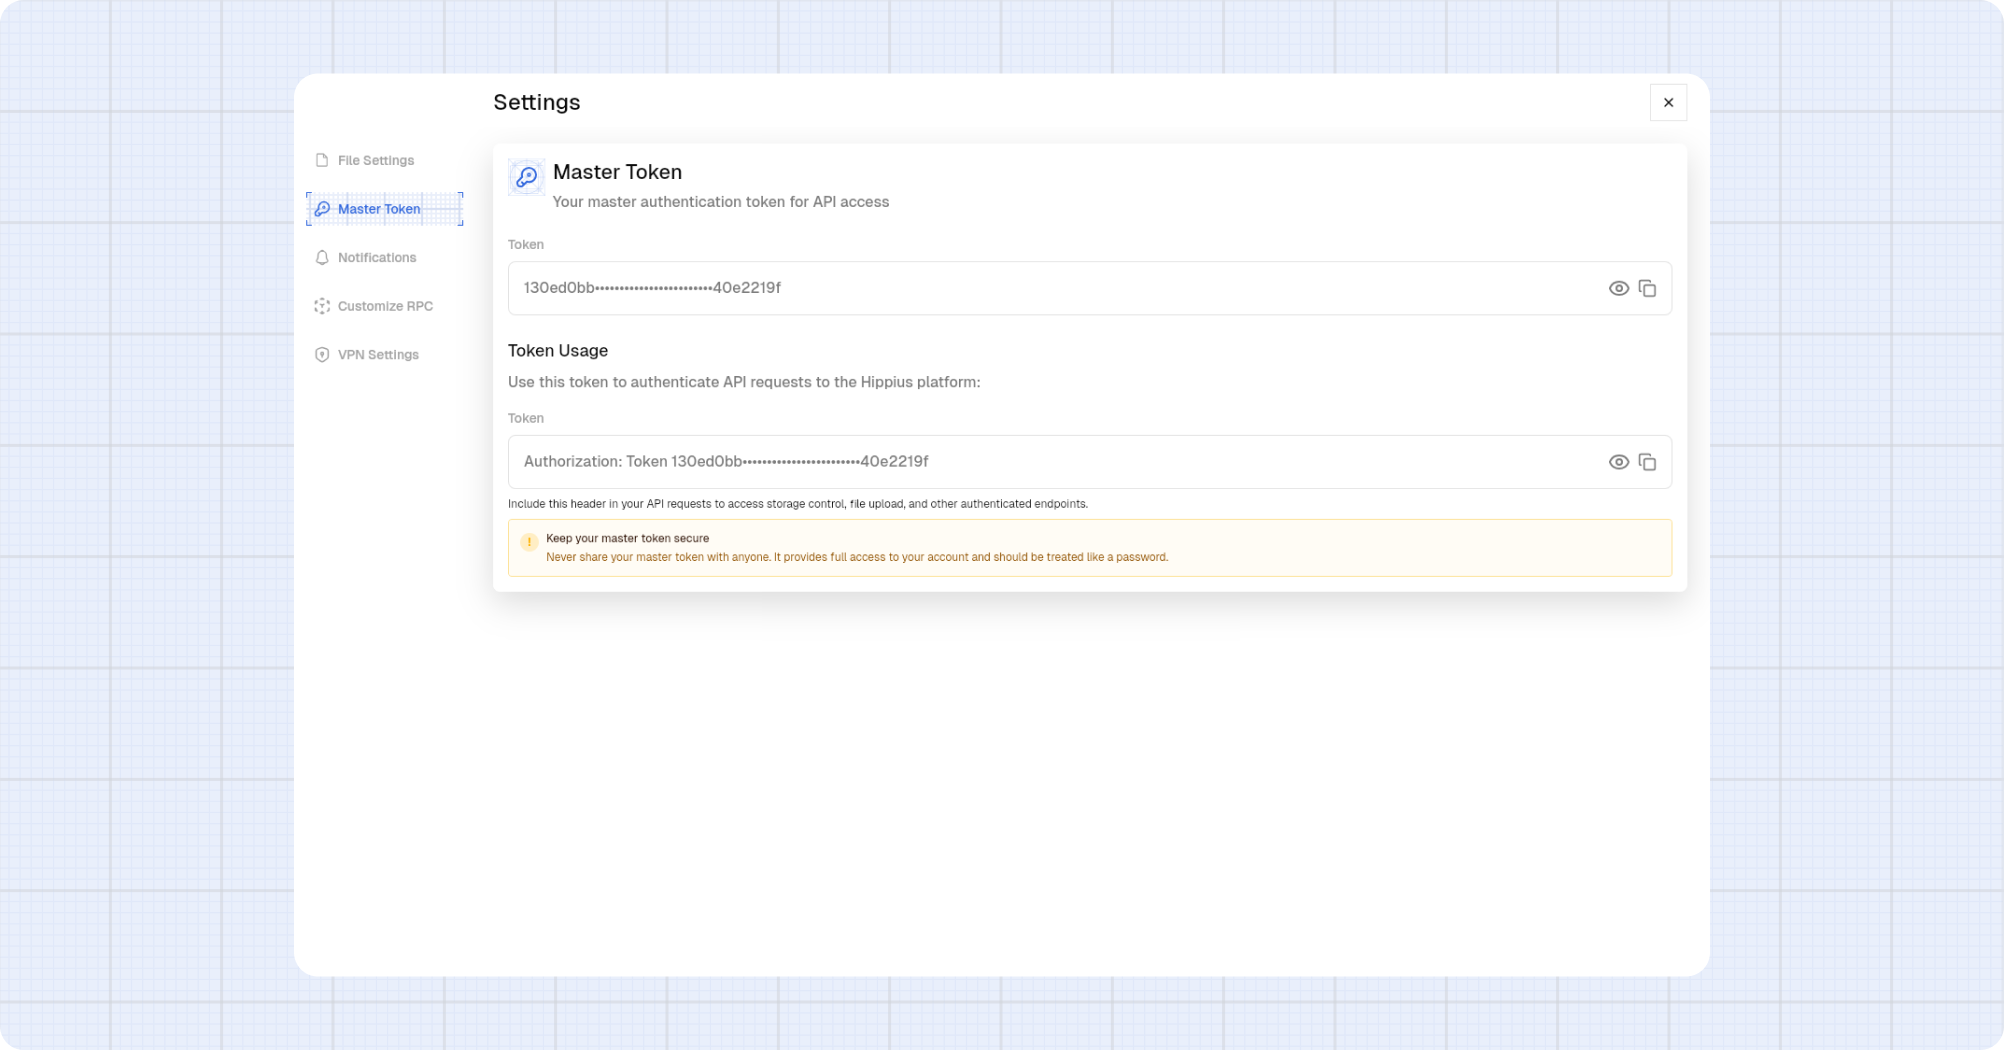
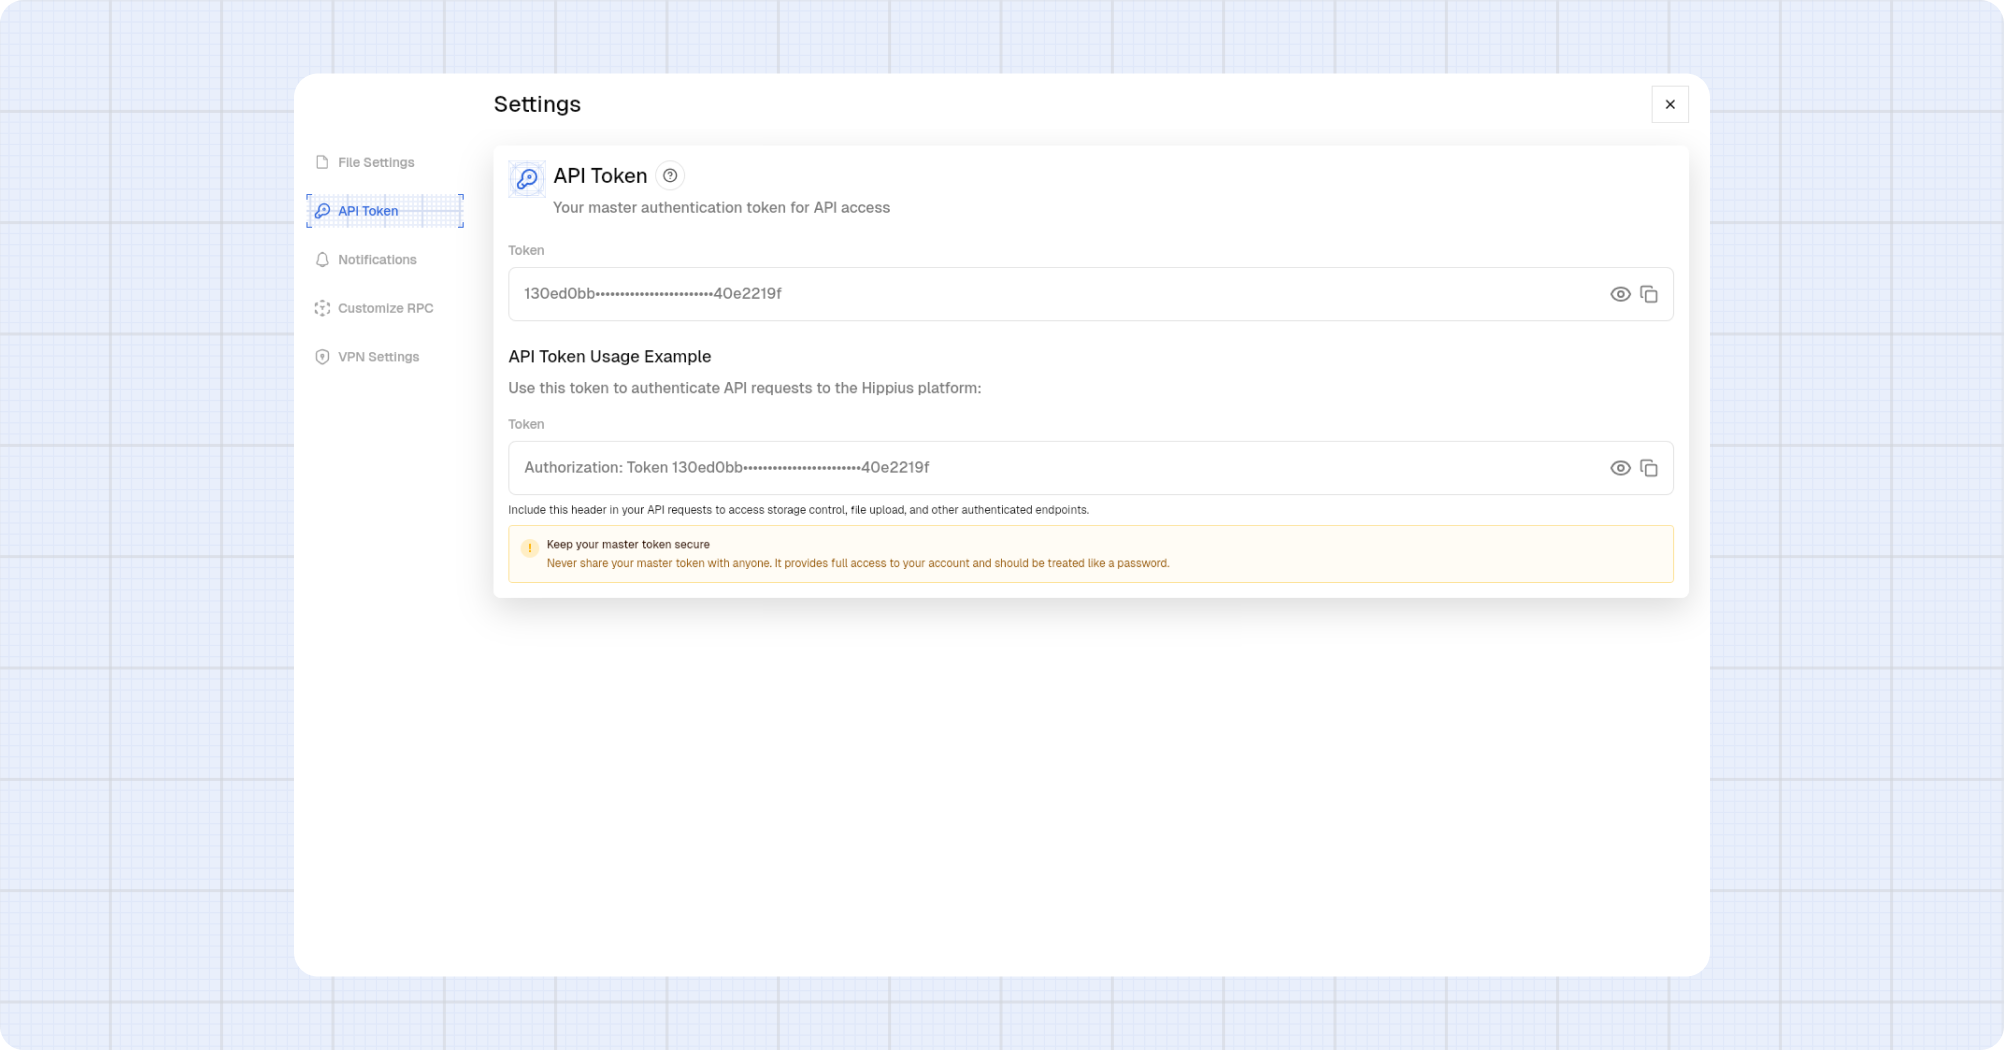
fix: update terminology from Master Token to API Token and improve upload instructions in documentation

diff --git a/docs/use/desktop/using-the-app.md b/docs/use/desktop/using-the-app.md
@@ -41,28 +41,8 @@ When you are done, click on the <BgStyledText>Sync Folder</BgStyledText> button 
 <Ordered>
   <li>Click the <Icon /> icon to open the app</li>
   <li>Home page: Click on <BgStyledIconWithText text="Files" icon="DocumentText" />, or <BgStyledText>Upload File</BgStyledText> button which is on the home page.</li>
-  <li>Choose the method you want to use to upload your file or folder.</li>
-</Ordered>
-
-### Use Hippius Folder
-
-<Ordered>
-  <li>Open app.</li>
-  <li>Add the file or folder you want to sync.</li>
-</Ordered>
-
-### Use CID
-
-<Ordered>
-  <li>Enter the CID of the file sourced from IPFS.</li>
-  <li>Choose a name for the file.</li>
-  <li>Register the CID.</li>
-</Ordered>
-
-### Use CSV
-
-<Ordered>
-  <li>Upload the CSV into the drop zone.</li>
+  <li>Choose the file or folder you want to upload.</li>
+  <li>Click the upload button to start the upload process.</li>
 </Ordered>
 
 **It usually takes some time to complete the upload to Hippius, but you can always monitor the upload progress.**

diff --git a/docs/use/desktop/settings.md b/docs/use/desktop/settings.md
@@ -56,18 +56,18 @@ File Settings
 </>
 </DocAccordionItem>
 
-## Master Token
+## API Token
 
-<DocAccordionItem value="master-token">
+<DocAccordionItem value="api-token">
   <>
-  Master Token
+  API Token
   </>
   <>
-    <p>Your master token authenticates API requests to the Hippius platform.</p>
+    <p>Your api token authenticates API requests to the Hippius platform.</p>
 
     <Ordered>
       <li>Click on <BgStyledIconWithText text="Settings" icon="Settings" />.</li>
-      <li>Click on <BgStyledIconWithText text="Master Token" icon="KeySquare" />.</li>
+      <li>Click on <BgStyledIconWithText text="API Token" icon="KeySquare" />.</li>
       <li>Copy the token using the copy icon.</li>
       <li>Use the <strong>Token Usage</strong> field as a reference for the Authorization header.</li>
     </Ordered>
